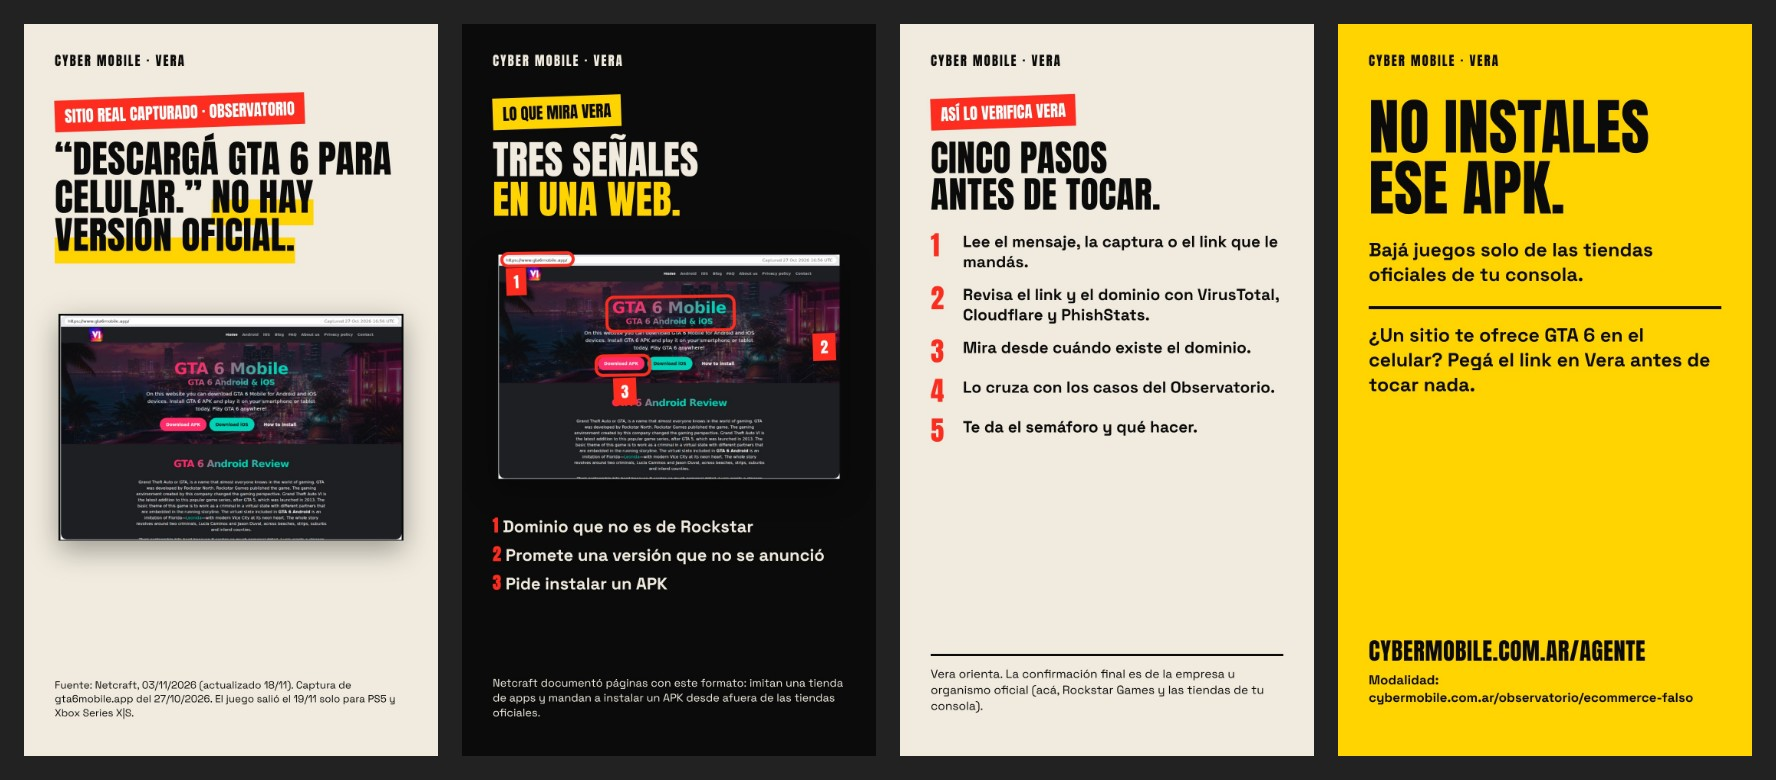
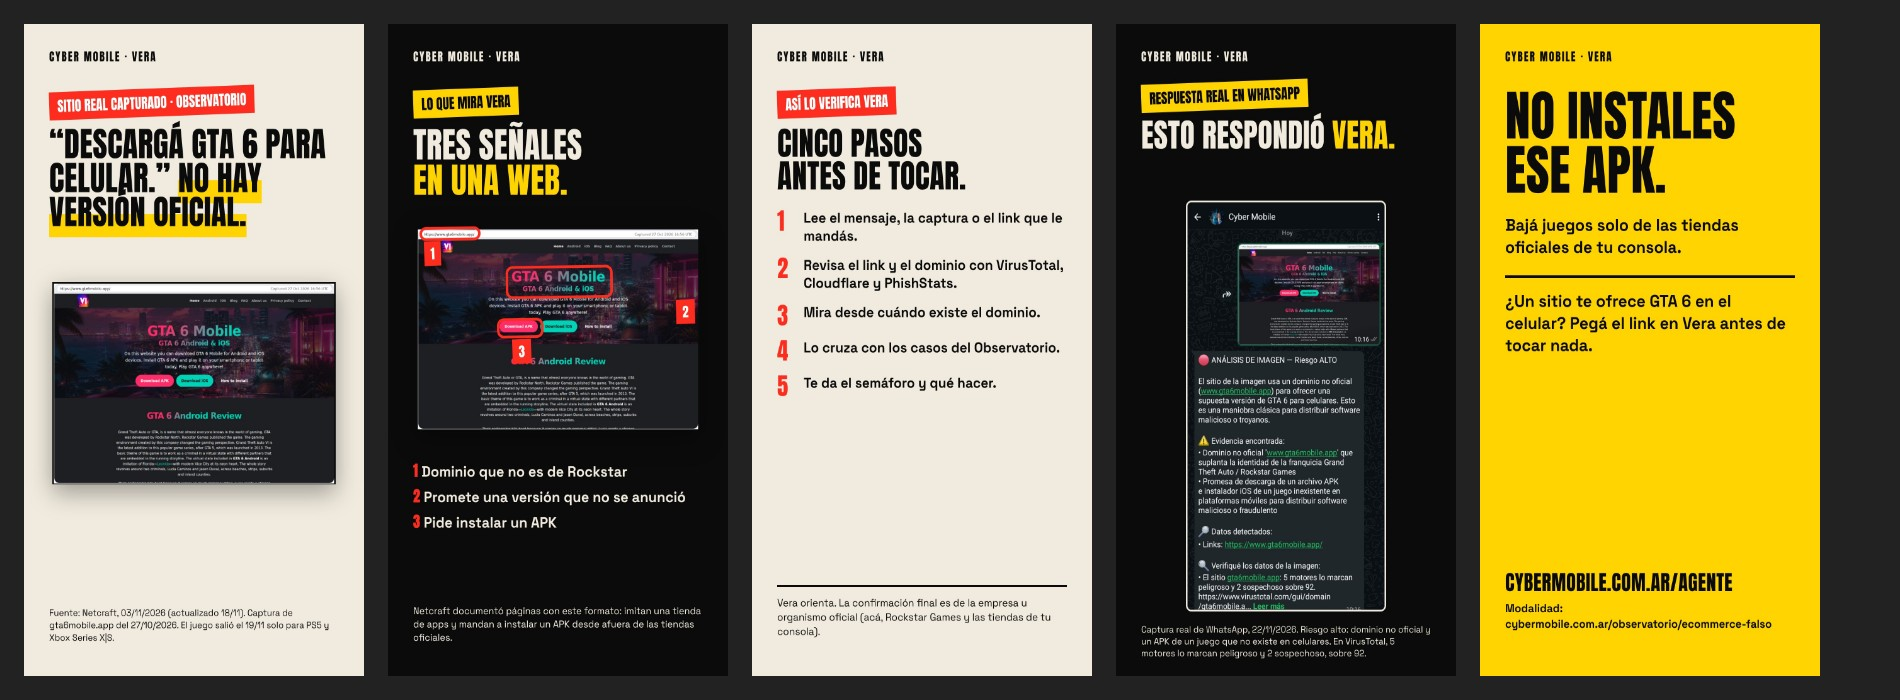
Redes: GTA 6 falso con la respuesta real de Vera en WhatsApp (5 historias)
Claude-Session: https://claude.ai/code/session_01Fx8nG8n9zT2oynar78L9kM

diff --git a/scripts/redes/propuestas/2026-11-22/html/f3.html b/scripts/redes/propuestas/2026-11-22/html/f3.html
@@ -1,0 +1,23 @@
+<html><head><meta charset=utf-8><style>
+@font-face{font-family:AN;src:url(/home/user/Cyber-Mobile/tarjetas/fuentes/Anton-Regular.ttf)}
+@font-face{font-family:SG;font-weight:700;src:url(/home/user/Cyber-Mobile/tarjetas/fuentes/SpaceGrotesk-Bold.ttf)}
+@font-face{font-family:SG;font-weight:400;src:url(/home/user/Cyber-Mobile/tarjetas/fuentes/SpaceGrotesk-Regular.ttf)}
+*{box-sizing:border-box;margin:0}body{width:1080px;height:1920px;overflow:hidden;font-family:SG,sans-serif;position:relative}
+.h{font-family:AN;text-transform:uppercase;line-height:1;letter-spacing:.5px}
+.pad{position:absolute;left:80px;right:80px}
+.brand{position:absolute;left:80px;top:70px;font-family:AN;font-size:34px;letter-spacing:4px}
+.tag{display:inline-block;font-family:AN;font-size:42px;padding:10px 26px;background:#ff2d1f;color:#fff;transform:rotate(-2deg);text-transform:uppercase}
+.mk{background:linear-gradient(transparent 55%,#ffd400 55%)}
+.src{font-size:29px;line-height:1.35}
+.url{font-family:AN;font-size:54px;letter-spacing:1px}
+.img{position:absolute;box-shadow:0 24px 70px rgba(0,0,0,.35);border:5px solid #0b0b0b;background:#fff}
+.img img{display:block;width:100%}
+.mkb{position:absolute;border:8px solid #ff2d1f;border-radius:22px;transform:rotate(-.8deg)}
+.mkl{position:absolute;font-family:AN;font-size:40px;background:#ff2d1f;color:#fff;padding:6px 20px;text-transform:uppercase;transform:rotate(-2deg);white-space:nowrap}
+body{background:#f1ebdf;color:#0b0b0b}</style></head><body><div class=brand>CYBER MOBILE · VERA</div><div class="pad" style="top:190px"><span class=tag>Así lo verifica Vera</span><div class=h style="font-size:96px;margin:30px 0 50px">CINCO PASOS<br>ANTES DE TOCAR.</div>
+<div style="display:flex;gap:28px;align-items:flex-start;margin-bottom:34px"><div class=h style="font-size:70px;color:#ff2d1f;min-width:56px">1</div><div style="font-size:42px;line-height:1.25;font-weight:700">Lee el mensaje, la captura o el link que le mandás.</div></div>
+<div style="display:flex;gap:28px;align-items:flex-start;margin-bottom:34px"><div class=h style="font-size:70px;color:#ff2d1f;min-width:56px">2</div><div style="font-size:42px;line-height:1.25;font-weight:700">Revisa el link y el dominio con VirusTotal, Cloudflare y PhishStats.</div></div>
+<div style="display:flex;gap:28px;align-items:flex-start;margin-bottom:34px"><div class=h style="font-size:70px;color:#ff2d1f;min-width:56px">3</div><div style="font-size:42px;line-height:1.25;font-weight:700">Mira desde cuándo existe el dominio.</div></div>
+<div style="display:flex;gap:28px;align-items:flex-start;margin-bottom:34px"><div class=h style="font-size:70px;color:#ff2d1f;min-width:56px">4</div><div style="font-size:42px;line-height:1.25;font-weight:700">Lo cruza con los casos del Observatorio.</div></div>
+<div style="display:flex;gap:28px;align-items:flex-start;margin-bottom:34px"><div class=h style="font-size:70px;color:#ff2d1f;min-width:56px">5</div><div style="font-size:42px;line-height:1.25;font-weight:700">Te da el semáforo y qué hacer.</div></div></div>
+<div class="pad src" style="bottom:110px;font-size:31px;border-top:6px solid #0b0b0b;padding-top:26px">Vera orienta. La confirmación final es de la empresa u organismo oficial (acá, Rockstar Games y las tiendas de tu consola).</div></body></html>

diff --git a/scripts/redes/propuestas/2026-11-22/html/f2.html b/scripts/redes/propuestas/2026-11-22/html/f2.html
@@ -1,0 +1,20 @@
+<html><head><meta charset=utf-8><style>
+@font-face{font-family:AN;src:url(/home/user/Cyber-Mobile/tarjetas/fuentes/Anton-Regular.ttf)}
+@font-face{font-family:SG;font-weight:700;src:url(/home/user/Cyber-Mobile/tarjetas/fuentes/SpaceGrotesk-Bold.ttf)}
+@font-face{font-family:SG;font-weight:400;src:url(/home/user/Cyber-Mobile/tarjetas/fuentes/SpaceGrotesk-Regular.ttf)}
+*{box-sizing:border-box;margin:0}body{width:1080px;height:1920px;overflow:hidden;font-family:SG,sans-serif;position:relative}
+.h{font-family:AN;text-transform:uppercase;line-height:1;letter-spacing:.5px}
+.pad{position:absolute;left:80px;right:80px}
+.brand{position:absolute;left:80px;top:70px;font-family:AN;font-size:34px;letter-spacing:4px}
+.tag{display:inline-block;font-family:AN;font-size:42px;padding:10px 26px;background:#ff2d1f;color:#fff;transform:rotate(-2deg);text-transform:uppercase}
+.mk{background:linear-gradient(transparent 55%,#ffd400 55%)}
+.src{font-size:29px;line-height:1.35}
+.url{font-family:AN;font-size:54px;letter-spacing:1px}
+.img{position:absolute;box-shadow:0 24px 70px rgba(0,0,0,.35);border:5px solid #0b0b0b;background:#fff}
+.img img{display:block;width:100%}
+.mkb{position:absolute;border:8px solid #ff2d1f;border-radius:22px;transform:rotate(-.8deg)}
+.mkl{position:absolute;font-family:AN;font-size:40px;background:#ff2d1f;color:#fff;padding:6px 20px;text-transform:uppercase;transform:rotate(-2deg);white-space:nowrap}
+body{background:#0b0b0b;color:#f1ebdf}</style></head><body><div class=brand>CYBER MOBILE · VERA</div><div class="pad" style="top:190px"><span class=tag style="background:#ffd400;color:#0b0b0b">Lo que mira Vera</span><div class=h style="font-size:104px;margin-top:30px">TRES SEÑALES<br><span style="color:#ffd400">EN UNA WEB.</span></div></div>
+<div class="img" style="top:600px;left:90px;width:900px;height:595px"><img src="/home/user/Cyber-Mobile/scripts/redes/propuestas/2026-11-22/real/gta6mobile.png"><div class=mkb style="left:4.711864406779661px;top:-8px;width:193.96610169491524px;height:41.42372881355932px"></div><div class=mkl style="left:20px;top:35.42372881355932px;">1</div><div class=mkb style="left:279.2881355932203px;top:106.40677966101694px;width:340.1525423728813px;height:97.35593220338983px"></div><div class=mkl style="left:20px;top:205.76271186440678px;left:auto;right:10px;">2</div><div class=mkb style="left:251.32203389830505px;top:261.4915254237288px;width:148.20338983050846px;height:59.220338983050844px"></div><div class=mkl style="left:300px;top:322.7118644067796px;">3</div></div>
+<div class="pad" style="top:1290px;font-size:44px;line-height:1.3;font-weight:700"><div style="margin-bottom:18px"><span class=h style="color:#ff2d1f">1</span>  Dominio que no es de Rockstar</div><div style="margin-bottom:18px"><span class=h style="color:#ff2d1f">2</span>  Promete una versión que no se anunció</div><div><span class=h style="color:#ff2d1f">3</span>  Pide instalar un APK</div></div>
+<div class="pad src" style="bottom:95px;font-size:29px;color:#f1ebdf">Netcraft documentó páginas con este formato: imitan una tienda de apps y mandan a instalar un APK desde afuera de las tiendas oficiales.</div></body></html>

diff --git a/scripts/redes/propuestas/2026-11-22/html/f4.html b/scripts/redes/propuestas/2026-11-22/html/f4.html
@@ -1,0 +1,19 @@
+<html><head><meta charset=utf-8><style>
+@font-face{font-family:AN;src:url(/home/user/Cyber-Mobile/tarjetas/fuentes/Anton-Regular.ttf)}
+@font-face{font-family:SG;font-weight:700;src:url(/home/user/Cyber-Mobile/tarjetas/fuentes/SpaceGrotesk-Bold.ttf)}
+@font-face{font-family:SG;font-weight:400;src:url(/home/user/Cyber-Mobile/tarjetas/fuentes/SpaceGrotesk-Regular.ttf)}
+*{box-sizing:border-box;margin:0}body{width:1080px;height:1920px;overflow:hidden;font-family:SG,sans-serif;position:relative}
+.h{font-family:AN;text-transform:uppercase;line-height:1;letter-spacing:.5px}
+.pad{position:absolute;left:80px;right:80px}
+.brand{position:absolute;left:80px;top:70px;font-family:AN;font-size:34px;letter-spacing:4px}
+.tag{display:inline-block;font-family:AN;font-size:42px;padding:10px 26px;background:#ff2d1f;color:#fff;transform:rotate(-2deg);text-transform:uppercase}
+.mk{background:linear-gradient(transparent 55%,#ffd400 55%)}
+.src{font-size:29px;line-height:1.35}
+.url{font-family:AN;font-size:54px;letter-spacing:1px}
+.img{position:absolute;box-shadow:0 24px 70px rgba(0,0,0,.35);border:5px solid #0b0b0b;background:#fff}
+.img img{display:block;width:100%}
+.mkb{position:absolute;border:8px solid #ff2d1f;border-radius:22px;transform:rotate(-.8deg)}
+.mkl{position:absolute;font-family:AN;font-size:40px;background:#ff2d1f;color:#fff;padding:6px 20px;text-transform:uppercase;transform:rotate(-2deg);white-space:nowrap}
+body{background:#0b0b0b;color:#f1ebdf}</style></head><body><div class=brand>CYBER MOBILE · VERA</div><div class="pad" style="top:170px"><span class=tag style="background:#ffd400;color:#0b0b0b">Respuesta real en WhatsApp</span><div class=h style="font-size:96px;margin-top:26px">ESTO RESPONDIÓ <span style="color:#ffd400">VERA.</span></div></div>
+<div style="position:absolute;left:222px;top:520px;width:636px;height:1210px;overflow:hidden;border:5px solid #f1ebdf;border-radius:18px;background:#000"><img src="/home/user/Cyber-Mobile/scripts/redes/propuestas/2026-11-22/real/vera-whatsapp.png" style="display:block;width:636px;margin-top:-60px"></div>
+<div class="pad src" style="bottom:50px;color:#f1ebdf;font-size:27px;line-height:1.3">Captura real de WhatsApp, 22/11/2026. Riesgo alto: dominio no oficial y un APK de un juego que no existe en celulares. En VirusTotal, 5 motores lo marcan peligroso y 2 sospechoso, sobre 92.</div></body></html>

diff --git a/scripts/redes/propuestas/2026-11-22/html/f5.html b/scripts/redes/propuestas/2026-11-22/html/f5.html
@@ -1,0 +1,19 @@
+<html><head><meta charset=utf-8><style>
+@font-face{font-family:AN;src:url(/home/user/Cyber-Mobile/tarjetas/fuentes/Anton-Regular.ttf)}
+@font-face{font-family:SG;font-weight:700;src:url(/home/user/Cyber-Mobile/tarjetas/fuentes/SpaceGrotesk-Bold.ttf)}
+@font-face{font-family:SG;font-weight:400;src:url(/home/user/Cyber-Mobile/tarjetas/fuentes/SpaceGrotesk-Regular.ttf)}
+*{box-sizing:border-box;margin:0}body{width:1080px;height:1920px;overflow:hidden;font-family:SG,sans-serif;position:relative}
+.h{font-family:AN;text-transform:uppercase;line-height:1;letter-spacing:.5px}
+.pad{position:absolute;left:80px;right:80px}
+.brand{position:absolute;left:80px;top:70px;font-family:AN;font-size:34px;letter-spacing:4px}
+.tag{display:inline-block;font-family:AN;font-size:42px;padding:10px 26px;background:#ff2d1f;color:#fff;transform:rotate(-2deg);text-transform:uppercase}
+.mk{background:linear-gradient(transparent 55%,#ffd400 55%)}
+.src{font-size:29px;line-height:1.35}
+.url{font-family:AN;font-size:54px;letter-spacing:1px}
+.img{position:absolute;box-shadow:0 24px 70px rgba(0,0,0,.35);border:5px solid #0b0b0b;background:#fff}
+.img img{display:block;width:100%}
+.mkb{position:absolute;border:8px solid #ff2d1f;border-radius:22px;transform:rotate(-.8deg)}
+.mkl{position:absolute;font-family:AN;font-size:40px;background:#ff2d1f;color:#fff;padding:6px 20px;text-transform:uppercase;transform:rotate(-2deg);white-space:nowrap}
+body{background:#ffd400;color:#0b0b0b}</style></head><body><div class=brand>CYBER MOBILE · VERA</div><div class="pad" style="top:190px"><div class=h style="font-size:160px">NO INSTALES<br>ESE APK.</div><div style="font-size:50px;line-height:1.3;font-weight:700;margin-top:50px">Bajá juegos solo de las tiendas oficiales de tu consola.</div>
+<div style="font-size:50px;line-height:1.3;font-weight:700;margin-top:50px;border-top:8px solid #0b0b0b;padding-top:36px">¿Un sitio te ofrece GTA 6 en el celular? Pegá el link en Vera antes de tocar nada.</div></div>
+<div class="pad url" style="bottom:230px;font-size:62px">CYBERMOBILE.COM.AR/AGENTE</div><div class="pad src" style="bottom:130px;font-size:34px;font-weight:700">Modalidad: cybermobile.com.ar/observatorio/ecommerce-falso</div></body></html>

diff --git a/scripts/redes/propuestas/2026-11-22/html/f1.html b/scripts/redes/propuestas/2026-11-22/html/f1.html
@@ -1,0 +1,19 @@
+<html><head><meta charset=utf-8><style>
+@font-face{font-family:AN;src:url(/home/user/Cyber-Mobile/tarjetas/fuentes/Anton-Regular.ttf)}
+@font-face{font-family:SG;font-weight:700;src:url(/home/user/Cyber-Mobile/tarjetas/fuentes/SpaceGrotesk-Bold.ttf)}
+@font-face{font-family:SG;font-weight:400;src:url(/home/user/Cyber-Mobile/tarjetas/fuentes/SpaceGrotesk-Regular.ttf)}
+*{box-sizing:border-box;margin:0}body{width:1080px;height:1920px;overflow:hidden;font-family:SG,sans-serif;position:relative}
+.h{font-family:AN;text-transform:uppercase;line-height:1;letter-spacing:.5px}
+.pad{position:absolute;left:80px;right:80px}
+.brand{position:absolute;left:80px;top:70px;font-family:AN;font-size:34px;letter-spacing:4px}
+.tag{display:inline-block;font-family:AN;font-size:42px;padding:10px 26px;background:#ff2d1f;color:#fff;transform:rotate(-2deg);text-transform:uppercase}
+.mk{background:linear-gradient(transparent 55%,#ffd400 55%)}
+.src{font-size:29px;line-height:1.35}
+.url{font-family:AN;font-size:54px;letter-spacing:1px}
+.img{position:absolute;box-shadow:0 24px 70px rgba(0,0,0,.35);border:5px solid #0b0b0b;background:#fff}
+.img img{display:block;width:100%}
+.mkb{position:absolute;border:8px solid #ff2d1f;border-radius:22px;transform:rotate(-.8deg)}
+.mkl{position:absolute;font-family:AN;font-size:40px;background:#ff2d1f;color:#fff;padding:6px 20px;text-transform:uppercase;transform:rotate(-2deg);white-space:nowrap}
+body{background:#f1ebdf;color:#0b0b0b}</style></head><body><div class=brand>CYBER MOBILE · VERA</div><div class="pad" style="top:190px"><span class=tag>Sitio real capturado · Observatorio</span><div class=h style="font-size:100px;margin-top:30px">“DESCARGÁ GTA 6 PARA CELULAR.” <span class=mk>NO HAY VERSIÓN OFICIAL.</span></div></div>
+<div class="img" style="top:760px;left:90px;width:900px;height:595px"><img src="/home/user/Cyber-Mobile/scripts/redes/propuestas/2026-11-22/real/gta6mobile.png"></div>
+<div class="pad src" style="bottom:95px;font-size:27px">Fuente: Netcraft, 03/11/2026 (actualizado 18/11). Captura de gta6mobile.app del 27/10/2026. El juego salió el 19/11 solo para PS5 y Xbox Series X|S.</div></body></html>

diff --git a/scripts/redes/propuestas/2026-11-22/html/m.html b/scripts/redes/propuestas/2026-11-22/html/m.html
@@ -1,0 +1,1 @@
+<html><body style="margin:0;background:#222;display:flex;gap:24px;padding:24px"><img src="file:///home/user/Cyber-Mobile/scripts/redes/propuestas/2026-11-22/historia-gta6-1.jpg" style="width:340px"><img src="file:///home/user/Cyber-Mobile/scripts/redes/propuestas/2026-11-22/historia-gta6-2.jpg" style="width:340px"><img src="file:///home/user/Cyber-Mobile/scripts/redes/propuestas/2026-11-22/historia-gta6-3.jpg" style="width:340px"><img src="file:///home/user/Cyber-Mobile/scripts/redes/propuestas/2026-11-22/historia-gta6-4.jpg" style="width:340px"><img src="file:///home/user/Cyber-Mobile/scripts/redes/propuestas/2026-11-22/historia-gta6-5.jpg" style="width:340px"></body></html>
